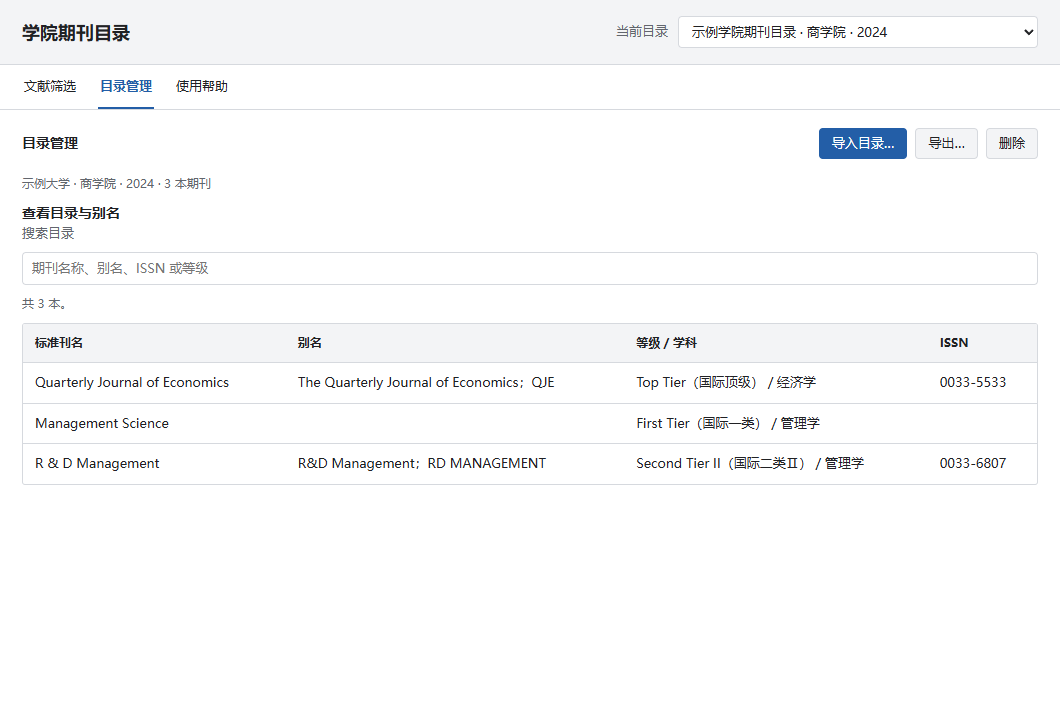
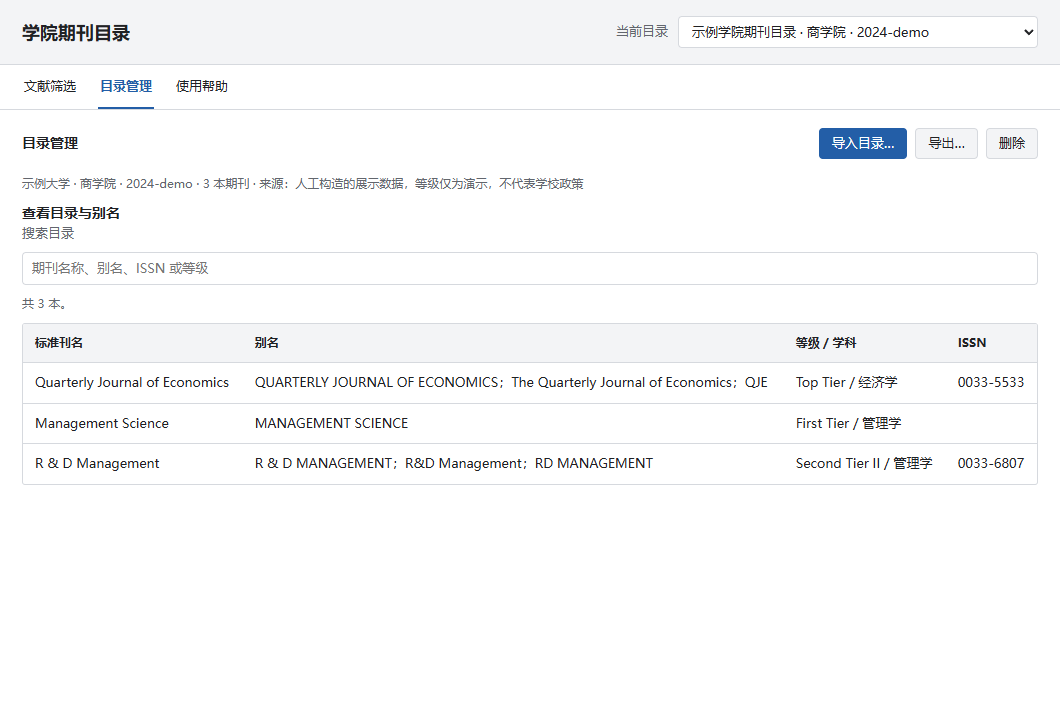
Make AI setup requests self-contained and show Zotero library grades

diff --git a/tests/zotero-smoke.js b/tests/zotero-smoke.js
@@ -183,6 +183,52 @@ async function runSmoke() {
       if (app.l10n.locale === "en") check(upgradedUI.$("refresh").textContent === "Refresh current list", "Upgrade loads English interface over the Chinese-only previous version");
       result.update = "v0.1.4 to current version through local HTTP feed with SHA-256; GitHub production feed requires a published stable release";
     }
+    if (__CAPTURE_PATH__) {
+      for (const window of app.dialogs) if (!window.closed) window.close();
+      const {catalog: display} = await app.readImport(__DISPLAY_CATALOG__);
+      await app.importCatalog(display);
+      const collection = new Zotero.Collection();
+      collection.name = app.l10n.locale === "en" ? "Journal grade demonstration" : "期刊等级演示";
+      await collection.saveTx();
+      const demoCases = [
+        ["The Quarterly Journal of Economics", "Economic evidence and institutions"],
+        ["QUARTERLY JOURNAL OF ECONOMICS", "Economic evidence and institutions (uppercase journal)"],
+        ["Management Science", "Organization and decision making"],
+        ["MANAGEMENT SCIENCE", "Organization and decision making (uppercase journal)"],
+        ["R&D Management", "Collaboration in research and development"],
+        ["RD MANAGEMENT", "Collaboration in research and development (alias)"]
+      ];
+      for (const [journal,title] of demoCases) {
+        const article = new Zotero.Item("journalArticle");
+        article.setField("title", title); article.setField("publicationTitle",journal);
+        article.setField("date", "2024");
+        article.setCreators([{firstName:"Alex",lastName:"Chen",creatorType:"author"}]);
+        article.setCollections([collection.id]); await article.saveTx();
+      }
+      win.resizeTo(1500, 850);
+      await win.ZoteroPane.collectionsView.selectCollection(collection.id);
+      await delay(800);
+      const view = win.ZoteroPane.itemsView;
+      for (const key of ["publicationTitle",app.columnKey]) {
+        const columns = view._getColumns();
+        const columnIndex = columns.findIndex(c=>c.dataKey===key);
+        if (columnIndex >= 0 && columns[columnIndex].hidden) view.tree._columns.toggleHidden(columnIndex);
+      }
+      const columnPrefs = view._getColumnPrefs();
+      for (const [key,width] of [["title",310],["firstCreator",75],["publicationTitle",340],[app.columnKey,140]]) columnPrefs[key] = {...columnPrefs[key],width,flex:0};
+      view._storeColumnPrefs(columnPrefs);
+      await view._resetColumns();
+      await delay(500);
+      check(view._getColumns().some(c=>c.dataKey===app.columnKey && !c.hidden), "Grade column enabled in actual Zotero library");
+      const bounds = new win.DOMRect(0,0,win.innerWidth,Math.min(390,win.innerHeight));
+      const bitmap = await win.browsingContext.currentWindowGlobal.drawSnapshot(bounds,1,"white");
+      const canvas = win.document.createElementNS("http://www.w3.org/1999/xhtml","canvas");
+      canvas.width=bitmap.width; canvas.height=bitmap.height;
+      canvas.getContext("2d").drawImage(bitmap,0,0); bitmap.close();
+      const blob = await new Promise(resolve=>canvas.toBlob(resolve,"image/png"));
+      await IOUtils.write(__CAPTURE_PATH__,new Uint8Array(await blob.arrayBuffer()));
+      check(true,"Actual Zotero library document captured with synthetic data");
+    }
     result.ok = true;
   }
   catch (error) { result.error = error.message + "\n" + error.stack; }

diff --git a/scripts/smoke_zotero.py b/scripts/smoke_zotero.py
@@ -20,6 +20,7 @@ def main():
     parser = argparse.ArgumentParser()
     parser.add_argument('--zotero', default='C:/Program Files/Zotero/zotero.exe')
     parser.add_argument('--locale', default='zh-CN')
+    parser.add_argument('--capture-library', help='Save an actual Zotero document render using synthetic demonstration data')
     args = parser.parse_args()
     if not Path(args.zotero).is_file():
         raise SystemExit('Use --zotero to specify your Zotero executable')
@@ -56,6 +57,8 @@ def main():
     }
     (profile / 'prefs.js').write_text('\n'.join(f'user_pref({json.dumps(k)}, {json.dumps(v)});' for k, v in prefs.items()), encoding='utf-8')
     source = (ROOT / 'tests/zotero-smoke.js').read_text(encoding='utf-8')
+    source = source.replace('__CAPTURE_PATH__', json.dumps(str(Path(args.capture_library).resolve()) if args.capture_library else ''))
+    source = source.replace('__DISPLAY_CATALOG__', json.dumps(str(ROOT / 'examples/display-catalog.json')))
     source = source.replace('__TARGET_VERSION__', json.dumps(json.loads((ROOT / 'addon/manifest.json').read_text(encoding='utf-8'))['version']))
     source = source.replace('__RESULT_PATH__', json.dumps(str(profile / 'result.json')))
     source = source.replace('__FIXTURE_PATH__', json.dumps(str(ROOT / 'examples/demo-journals.json')))

diff --git a/README.en.md b/README.en.md
@@ -6,13 +6,38 @@ Import your institution's journal rankings into Zotero, display grades beside pa
 
 No AI key or server required. Use your preferred AI to prepare the catalog once; matching runs locally. Supports multiple catalogs, journal aliases and ISSNs.
 
-## Let Codex or Claude help configure it
+## Attach materials and let an AI configure it
 
-Give your AI **the official policy materials and this repository**. For local Codex or Claude Code, open the repository and send:
+**No manual repository download required up front.** Attach your official materials and copy the complete request below. The agent fetches the repository and reads its instructions.
 
-> Read AGENTS.md, CLAUDE.md and skills/configure-journal-list/SKILL.md. Use my supplied institutional materials to prepare, audit and validate an import file. If you can interact with local Zotero, install/import and verify it; otherwise deliver the files and remaining clicks. Keep private materials and results under .local/, out of Git commits.
+```text
+Use this open-source project to configure institutional journal grades in my Zotero:
+https://github.com/xiangzhong26/YOUR-JOURNAL-LIST
 
-Source formats depend on the agent's file/OCR tools. This repository supplies the workflow and the plugin's shared validator; a web chat or repository URL alone cannot guarantee access to desktop Zotero. See the **[AI-assisted setup guide](docs/AI_SETUP.en.md)** for the complete request, expected files and local/web workflows.
+My official school/department materials are attached. If inaccessible, tell me what sources you need.
+Access the repository yourself. With local command tools, clone/download it into a new working
+folder without overwriting existing projects; do not require me to download it first.
+Read AGENTS.md, CLAUDE.md and skills/configure-journal-list/SKILL.md, then follow the workflow.
+If the repository page is inaccessible, try the direct instruction file:
+https://raw.githubusercontent.com/xiangzhong26/YOUR-JOURNAL-LIST/master/skills/configure-journal-list/SKILL.md
+
+Identify the institution, department, policy version and grades from the sources.
+Reconcile every page/group, continued titles, ISSNs, aliases and counts. Keep departments and
+versions separate. Do not guess grades or identifiers; report unresolved entries in the source audit.
+The plugin ignores case; do not enumerate every capitalization variant. Missing symbols,
+abbreviations and alternative names require verified explicit aliases.
+Deliver importable JSON and a source-audit report; run the shared validator when execution is available.
+If you can interact with my local Zotero, install if needed, import and activate a new catalog
+without replacing existing catalogs, and verify it. Otherwise deliver files and remaining clicks;
+do not claim installation/import you did not perform.
+Keep private materials/results under .local/ or a private folder. Do not commit or publish them.
+If repository access or a source format is unsupported, explain the specific limitation and ask
+only for the files needed to proceed.
+```
+
+[English request as plain text](docs/ai-setup-request.en.txt) / [中文请求](docs/ai-setup-request.zh-CN.txt).
+
+Local Zotero automation and source formats depend on the agent’s tools. Without desktop access it delivers files for manual import. See the [AI setup guide](docs/AI_SETUP.en.md).
 
 ## Start here
 
@@ -29,7 +54,11 @@ Manifest compatibility: **Zotero 7–10 desktop**. Tested on **Windows / Zotero 
 
 ## Illustrated guide
 
-These are **browser-rendered previews of the current interface source**, with fictional school and paper data. In Zotero, dropdowns use native menus whose appearance depends on the operating system. These are not screenshots of Zotero itself.
+This is an **actual Windows / Zotero 10.0.6 item-list capture** from an isolated library using synthetic papers and demonstration grades. Case variants and confirmed aliases show the same grade.
+
+![Institutional grade in the actual Zotero item list](docs/images/zotero-library-en.png)
+
+The plugin-window images below are **browser-rendered previews of the current UI source**. Zotero uses native dropdown menus. The [display catalog](examples/display-catalog.json) uses illustrative grades, not institutional policy.
 
 ### Import a catalog
 
@@ -117,6 +146,12 @@ Deliverables:
 
 </details>
 
+## Do capitalization variants need aliases?
+
+**No.** Canonical titles and aliases are matched case-insensitively. `Management Science`, `MANAGEMENT SCIENCE` and `management science` receive the same grade, including when the canonical title is uppercase. Mechanical title casing can damage official spellings such as `R&D`.
+
+The display example includes uppercase aliases for visual checking; they are optional. Explicit aliases are needed for genuinely different spellings such as `RD MANAGEMENT` without the ampersand, or verified abbreviations such as `QJE`. Abbreviations shared by different journals remain conflicting.
+
 ## File format
 
 Use UTF-8 JSON. Minimal example (the grade is illustrative):
@@ -184,5 +219,7 @@ python scripts/smoke_zotero.py --zotero "C:/Program Files/Zotero/zotero.exe"
 ```
 
 With `dist/your-journal-list-0.1.4.xpi` present, the test also checks update discovery, download, installation, catalog retention and warm-cache replacement. Otherwise the upgrade section is skipped. Use `--locale zh-CN` or `--locale en-US` to test each language. See the [Chinese](docs/test-report.json) and [English](docs/test-report.en.json) test reports. Optional `scripts/preview-ui.cjs` uses Playwright to render documentation previews; it is not required by the plugin.
+
+Reproduce the actual library capture with `python scripts/smoke_zotero.py --locale en-US --capture-library docs/images/zotero-library-en.png`. Captures use only `examples/display-catalog.json` and synthetic papers in an isolated profile.
 
 MIT License. Report problems in [Issues](https://github.com/xiangzhong26/YOUR-JOURNAL-LIST/issues) with Zotero/plugin versions, reproduction steps and a sanitized catalog excerpt.

diff --git a/README.md b/README.md
@@ -6,13 +6,34 @@
 
 **不需要 AI 密钥或服务器。** AI 只用于事先整理学校文件；插件在本机匹配，支持多份目录和中英文期刊。
 
-## 让 Codex / Claude 帮你配置
+## 上传材料，让 AI 帮你配置
 
-不想自己整理文件？可以把**学校目录材料与本仓库**一起交给 AI。推荐在本地 Codex 或 Claude Code 中打开仓库，然后发送：
+**无需预先下载仓库。** 附上学校目录材料，完整复制下面的请求，AI 会自行获取项目并读取指引。
 
-> 请阅读 AGENTS.md、CLAUDE.md 和 skills/configure-journal-list/SKILL.md，使用我提供的学校目录材料，帮我整理、核对并校验导入文件；有本机 Zotero 操作能力时继续安装、导入并验证，否则交付文件和剩余点击步骤。私有材料和结果请放在 .local/，不要提交到 GitHub。
+```text
+请使用这个开源项目帮我配置 Zotero 的学院期刊目录：
+https://github.com/xiangzhong26/YOUR-JOURNAL-LIST
 
-支持的原始格式取决于 AI 的文件读取/OCR能力。仓库提供完整操作指引和与插件共用的校验工具；仅有网页聊天或仓库链接时，不能保证自动操作本机。详见 **[AI 协助配置指南](docs/AI_SETUP.md)**，包含可复制请求、输出文件说明和本地/网页两种用法。
+我的学校或学院期刊目录材料已附在这条消息中；如附件不可访问，请告诉我需要提供哪些材料。
+请自行访问仓库；有本地命令能力时，将仓库克隆或下载到新的工作目录，不覆盖已有项目，
+不要求我预先下载仓库。先阅读 AGENTS.md、CLAUDE.md 和
+skills/configure-journal-list/SKILL.md，再按其中指引处理材料。
+仓库主页不可访问时，可尝试直接读取：
+https://raw.githubusercontent.com/xiangzhong26/YOUR-JOURNAL-LIST/master/skills/configure-journal-list/SKILL.md
+
+识别材料中的学校、学院、政策版本和等级，逐页核对期刊、跨页续行、ISSN、别名与数量。
+不同学院或版本分别生成目录；不猜测等级或标识，未确认记录列入来源核对报告。
+插件自动忽略刊名大小写，无需机械枚举大小写；缺少符号、缩写及不同名称须核实后作为别名。
+生成可导入 JSON 和来源核对报告；有执行能力时运行仓库的共享校验工具。
+能操作我本机 Zotero 时，请保留现有目录，完成安装（如需要）、导入、启用和验证。
+不能操作时请交付文件及剩余点击步骤，不要声称已经安装或导入。
+私有材料和结果放在 .local/ 或私有目录，不要提交或发布到 GitHub。
+如无法联网读取指引或读取某种材料，请说明具体限制，再让我补充相应文件。
+```
+
+[中文配置请求纯文本](docs/ai-setup-request.zh-CN.txt) / [English request](docs/ai-setup-request.en.txt)。
+
+能否操作本机 Zotero、读取哪些格式取决于 AI 的工具能力；没有本机操作能力时交付文件供手动导入。详见 [AI 配置指南](docs/AI_SETUP.md)。
 
 ## 第一次使用
 
@@ -29,7 +50,11 @@
 
 ## 操作图解
 
-以下图片是**用当前界面源文件在浏览器渲染的预览**，使用虚构的学院与文献数据。Zotero 内实际使用原生下拉菜单，外观随系统变化；不是 Zotero 实机截图。
+下图是 **Windows / Zotero 10.0.6 实机文献列表区域截图**，来自独立测试库。期刊等级和文献为人工构造的展示数据；不同大小写及已确认别名显示同一等级。
+
+![Zotero 主文献列表中的学院等级列](docs/images/zotero-library.png)
+
+后面的插件窗口图片是**当前界面源文件的浏览器渲染预览**；实机使用 Zotero 原生下拉菜单。展示数据见 [示例目录 JSON](examples/display-catalog.json)，不代表学校政策。
 
 ### 导入目录
 
@@ -121,6 +146,12 @@
 
 </details>
 
+## 大小写是否需要另建别名？
+
+**不需要。** 标准刊名和别名匹配均忽略大小写：`Management Science`、`MANAGEMENT SCIENCE` 和 `management science` 得到相同等级；标准刊名全大写时也一样。机械地转为首字母大写还可能破坏 `R&D` 等正式写法。
+
+示例图中提供了全大写别名方便人工核对，但这是可省略的。真正需要补充的是不同写法，例如省略 `&` 的 `RD MANAGEMENT` 和经核实的简称 `QJE`。不同期刊共享简称仍会提示冲突。
+
 ## 文件格式
 
 推荐 JSON UTF-8。最小示例（示例等级不代表学校政策）：
@@ -188,5 +219,7 @@ python scripts/smoke_zotero.py --zotero "C:/Program Files/Zotero/zotero.exe"
 ```
 
 若 `dist` 中有旧版 `your-journal-list-0.1.4.xpi`，还会测试从旧版发现更新、下载、安装、目录保留和缓存刷新；没有旧包时跳过升级部分。支持 `--locale zh-CN` / `--locale en-US` 分别检查中英文环境。最新实测结果见 [中文环境报告](docs/test-report.json) / [英文环境报告](docs/test-report.en.json)。界面预览生成脚本为 `scripts/preview-ui.cjs`，使用可选的 Playwright，不参与插件运行。
+
+文献列表实机图由隔离测试库生成：`python scripts/smoke_zotero.py --locale zh-CN --capture-library docs/images/zotero-library.png`；英文使用 `--locale en-US` 和对应输出文件名。截图只使用 `examples/display-catalog.json` 与人工构造文献。
 
 MIT License。欢迎通过 [Issues](https://github.com/xiangzhong26/YOUR-JOURNAL-LIST/issues) 报告问题；请附 Zotero / 插件版本、复现步骤及脱敏目录片段。

diff --git a/docs/AI_SETUP.en.md b/docs/AI_SETUP.en.md
@@ -6,25 +6,36 @@ Codex, Claude Code and other file-capable agents can follow this repository's se
 
 The AI extracts the source material, validates an import file, then helps configure the plugin. Supported source formats and access to your desktop Zotero depend on the agent's tools and permissions; this is not a universal document importer built into Zotero.
 
-## Recommended: local Codex or Claude Code
+## Recommended: attach materials and copy the request
 
-1. Download or clone [this repository](https://github.com/xiangzhong26/YOUR-JOURNAL-LIST) and open its folder in your agent.
-2. Put official source materials under `.local/input/`, or give the agent their exact local paths. PDF, Word, Excel, images, CSV and text are potential inputs. Scans need image/OCR capabilities. Keep institutional materials out of the public repository.
-3. Send the following request, replacing the source path:
+1. Attach official materials in Codex / Claude, or give a local agent their paths.
+2. Copy the request below. The repository URL is included; the agent fetches the project itself.
+3. If network, attachment or execution access is unavailable, the agent should explain the limitation and deliver the available files and remaining steps.
 
-   ```text
-   Follow this repository's AGENTS.md (and CLAUDE.md for Claude) and
-   skills/configure-journal-list/SKILL.md to configure Your Journal List for me.
-   My official institutional journal materials are at: <file or folder path>.
-   Identify the institution, department, policy version and grades from the sources.
-   Reconcile every page/group, continued titles, ISSNs, aliases and record counts.
-   Create an importable catalog and source-audit report, then run the shared validator.
-   Keep departments/versions separate. Report unreadable or unverified content; do not guess.
-   If you can interact with my local Zotero, install the plugin if needed, import and
-   activate a new catalog without replacing existing ones, and verify the result.
-   Otherwise deliver the files and explain the remaining installation/import clicks.
-   Keep private materials and output under .local/. Do not commit or publish them.
-   ```
+```text
+Use this open-source project to configure institutional journal grades in my Zotero:
+https://github.com/xiangzhong26/YOUR-JOURNAL-LIST
+
+My official school/department materials are attached. If inaccessible, tell me what sources you need.
+Access the repository yourself. With local command tools, clone/download it into a new working
+folder without overwriting existing projects; do not require me to download it first.
+Read AGENTS.md, CLAUDE.md and skills/configure-journal-list/SKILL.md, then follow the workflow.
+If the repository page is inaccessible, try the direct instruction file:
+https://raw.githubusercontent.com/xiangzhong26/YOUR-JOURNAL-LIST/master/skills/configure-journal-list/SKILL.md
+
+Identify the institution, department, policy version and grades from the sources.
+Reconcile every page/group, continued titles, ISSNs, aliases and counts. Keep departments and
+versions separate. Do not guess grades or identifiers; report unresolved entries in the source audit.
+The plugin ignores case; do not enumerate every capitalization variant. Missing symbols,
+abbreviations and alternative names require verified explicit aliases.
+Deliver importable JSON and a source-audit report; run the shared validator when execution is available.
+If you can interact with my local Zotero, install if needed, import and activate a new catalog
+without replacing existing catalogs, and verify it. Otherwise deliver files and remaining clicks;
+do not claim installation/import you did not perform.
+Keep private materials/results under .local/ or a private folder. Do not commit or publish them.
+If repository access or a source format is unsupported, explain the specific limitation and ask
+only for the files needed to proceed.
+```
 
 4. Expect a new private delivery folder containing:
 
@@ -41,7 +52,7 @@ The AI extracts the source material, validates an import file, then helps config
 
 ## Repository link plus attachments
 
-You can give an AI the repository URL and attach the documents, then send the request above. It must be able to access both. A pasted URL does not guarantee automatic loading of all instructions: explicitly ask it to read AGENTS.md, CLAUDE.md and the setup skill. If it cannot browse, supply a repository ZIP. In restricted environments, provide the relevant instructions and preparation prompt directly.
+This is the default workflow: attach your documents and send the request above containing the repository URL. It must be able to access both. A pasted URL does not guarantee automatic loading of all instructions: explicitly ask it to read AGENTS.md, CLAUDE.md and the setup skill. If it cannot browse, supply a repository ZIP. In restricted environments, provide the relevant instructions and preparation prompt directly.
 
 Web-only chat usually cannot install software in your desktop Zotero. It can deliver JSON for manual import instead. No Zotero credentials or GitHub token are needed. Uploaded materials are handled by your chosen AI provider; choose an environment appropriate for the materials.
 

diff --git a/docs/AI_SETUP.md b/docs/AI_SETUP.md
@@ -6,23 +6,32 @@
 
 这不是让 Zotero 直接读取所有文件。AI 先提取材料，生成经过校验的目录，再通过插件导入。具体能读取哪些格式、能否操作本机 Zotero，取决于你使用的 AI 工具和授权能力。
 
-## 推荐：本地 Codex / Claude Code
+## 推荐：附上材料，复制完整请求
 
-1. 下载或克隆 [本仓库](https://github.com/xiangzhong26/YOUR-JOURNAL-LIST)，在 AI 工具中打开解压后的项目文件夹。
-2. 将学校材料放在项目的 `.local/input/`，或告诉 AI 材料在本机的准确路径。PDF、Word、Excel、图片、CSV、文本均可作为候选输入；扫描件需要 AI 环境具备图片识别/OCR能力。不要把学校材料提交到公开仓库。
-3. 把下面这段话发送给 AI（将材料路径和学院改成自己的；未确定的信息可让 AI 从材料中识别）：
+1. 在 Codex / Claude 中附上学校材料，也可给本地工具提供材料路径。
+2. 复制下面的请求；仓库地址已写入，AI 自行读取或下载项目，用户无需先下载。
+3. 如不能联网、读取附件或执行命令，AI 应说明具体限制并交付可完成的文件和剩余步骤。
 
-   ```text
-   请根据本仓库的 AGENTS.md（Claude 也请阅读 CLAUDE.md）和
-   skills/configure-journal-list/SKILL.md，帮我配置 Your Journal List。
-   我的学校期刊目录材料在：<文件或文件夹路径>。
-   请识别材料中的学校、学院、政策版本和等级，逐页核对期刊、续行、ISSN、别名与数量，
-   生成可导入目录和来源核对报告，并运行仓库提供的校验工具。
-   多个学院或版本请分别处理。不能辨认或无法确认的内容请列入报告，不要猜测。
-   如果你能操作本机 Zotero，请在保留现有目录的前提下完成安装（如需要）、导入、启用和验证。
-   如果不能操作 Zotero，请把生成文件交付给我，并明确告诉我剩余点击步骤。
-   请将私有材料和生成结果放在 .local/ 下，不要提交或发布到 GitHub。
-   ```
+```text
+请使用这个开源项目帮我配置 Zotero 的学院期刊目录：
+https://github.com/xiangzhong26/YOUR-JOURNAL-LIST
+
+我的学校或学院期刊目录材料已附在这条消息中；如附件不可访问，请告诉我需要提供哪些材料。
+请自行访问仓库；有本地命令能力时，将仓库克隆或下载到新的工作目录，不覆盖已有项目，
+不要求我预先下载仓库。先阅读 AGENTS.md、CLAUDE.md 和
+skills/configure-journal-list/SKILL.md，再按其中指引处理材料。
+仓库主页不可访问时，可尝试直接读取：
+https://raw.githubusercontent.com/xiangzhong26/YOUR-JOURNAL-LIST/master/skills/configure-journal-list/SKILL.md
+
+识别材料中的学校、学院、政策版本和等级，逐页核对期刊、跨页续行、ISSN、别名与数量。
+不同学院或版本分别生成目录；不猜测等级或标识，未确认记录列入来源核对报告。
+插件自动忽略刊名大小写，无需机械枚举大小写；缺少符号、缩写及不同名称须核实后作为别名。
+生成可导入 JSON 和来源核对报告；有执行能力时运行仓库的共享校验工具。
+能操作我本机 Zotero 时，请保留现有目录，完成安装（如需要）、导入、启用和验证。
+不能操作时请交付文件及剩余点击步骤，不要声称已经安装或导入。
+私有材料和结果放在 .local/ 或私有目录，不要提交或发布到 GitHub。
+如无法联网读取指引或读取某种材料，请说明具体限制，再让我补充相应文件。
+```
 
 4. AI 应交付一个新的私有文件夹，至少包含：
 
@@ -39,7 +48,7 @@
 
 ## 只提供 GitHub 链接和附件也可以吗？
 
-可以尝试：提供仓库链接、上传学校材料，再发送上面的请求。但 AI 必须能访问仓库内容和附件；仅粘贴链接不会保证所有指引自动加载。可以明确要求它先读取 `AGENTS.md`、`CLAUDE.md` 和配置 skill。如果 AI 无法浏览仓库，请同时提供仓库 ZIP；若环境不允许解压或执行，则让它阅读相应指引与中英文目录整理提示词。
+这就是默认使用方式：附上学校材料，发送上面带仓库地址的请求。但 AI 必须能访问仓库内容和附件；仅粘贴链接不会保证所有指引自动加载。可以明确要求它先读取 `AGENTS.md`、`CLAUDE.md` 和配置 skill。如果 AI 无法浏览仓库，请同时提供仓库 ZIP；若环境不允许解压或执行，则让它阅读相应指引与中英文目录整理提示词。
 
 网页聊天通常只能生成文件，不能直接安装你电脑里的 Zotero。此时交付 JSON 后手动导入即可，不需要向 AI 提供 Zotero 账号、密码或 GitHub Token。材料上传会经过你所选 AI 服务，请按学校要求选择适合处理这些材料的环境。
 

diff --git a/skills/configure-journal-list/SKILL.md b/skills/configure-journal-list/SKILL.md
@@ -11,7 +11,7 @@ Use the user's provided school/department materials and this repository to deliv
 
 - Local agent with file/command tools: process accessible materials, run the validator, and obtain/build the plugin if needed. If desktop control or an established Zotero integration is available, complete installation/import through Zotero and verify the result. Use the environment's supported automation tools.
 - Agent without local access: create downloadable catalog/report artifacts where supported. Otherwise provide the JSON text and precise saving/import steps. Do not claim to have run commands or configured Zotero.
-- A repository URL alone may not expose files to the agent. Fetch/clone the repository with available tools, or ask for its ZIP/relevant instructions if access fails. Do not assume AGENTS.md/CLAUDE.md was automatically loaded.
+- The default user request includes https://github.com/xiangzhong26/YOUR-JOURNAL-LIST and attached policy materials. Fetch/clone the repository yourself with available tools into a new working directory; do not require users to download it first or overwrite an existing checkout. A repository URL alone may not expose every file: explicitly read the entry points and their references. Only ask for the ZIP/relevant instructions when network access fails.
 
 ## Prepare the policy data
 

diff --git a/CHANGELOG.md b/CHANGELOG.md
@@ -2,6 +2,10 @@
 
 ## 尚未单独发布（仓库工具与文档）
 
+- AI 配置请求直接包含仓库与指引链接，用户附上材料即可让代理自行获取项目。
+- 新增中英文 Zotero 主文献列表实机效果图；展示大小写与别名命中相同等级。
+- 统一展示目录和预览数据，提供可选全大写别名，解释纯大小写变化无需重复别名。
+
 - 新增 Codex / Claude 配置入口、仓库本地 skill 和中英文 AI 协助配置指南。
 - 新增 prepare_catalog 工具：复用插件解析/匹配逻辑生成私有导入包、校验报告和剩余步骤，明确区分格式校验与原始材料核对。
 - 此变更无需更新插件安装包；原始材料的读取和 Zotero 操作取决于所用 AI 环境能力。
